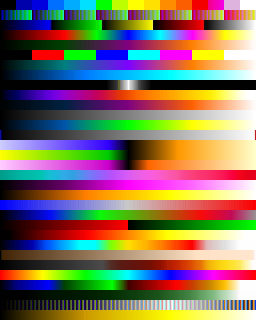
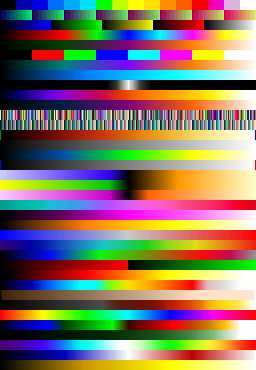
Update luts_10.png and list of new luts
Former-commit-id: de6da13f4d6d75056b44f8af123525e3b6bdb91a

diff --git a/components/tools/OmeroWeb/omeroweb/webgateway/static/webgateway/js/ome.viewport.js b/components/tools/OmeroWeb/omeroweb/webgateway/static/webgateway/js/ome.viewport.js
@@ -24,38 +24,43 @@ if (!OME) {
   OME = {};
 }
 // these are the LUT Names we know about and are included in the lut preview
-OME.LUT_NAMES = ["16_colors.lut",
-  "3-3-2_rgb.lut",
-  "5_ramps.lut",
-  "6_shades.lut",
-  "blue_orange_icb.lut",
-  "brgbcmyw.lut",
-  "cool.lut",
-  "cyan_hot.lut",
-  "edges.lut",
-  "fire.lut",
-  "gem.lut",
-  "grays.lut",
-  "green_fire_blue.lut",
-  "hilo.lut",
-  "ica.lut",
-  "ica2.lut",
-  "ica3.lut",
-  "ice.lut",
-  "magenta_hot.lut",
-  "orange_hot.lut",
-  "phase.lut",
-  "rainbow_rgb.lut",
-  "red-green.lut",
-  "red_hot.lut",
-  "royal.lut",
-  "sepia.lut",
-  "smart.lut",
-  "spectrum.lut",
-  "thal.lut",
-  "thallium.lut",
-  "unionjack.lut",
-  "yellow_hot.lut"];
+OME.LUT_NAMES = ['16_colors.lut',
+                 '3-3-2_rgb.lut',
+                 '5_ramps.lut',
+                 '6_shades.lut',
+                 'blue_orange_icb.lut',
+                 'brgbcmyw.lut',
+                 'cool.lut',
+                 'cyan_hot.lut',
+                 'edges.lut',
+                 'fire.lut',
+                 'gem.lut',
+                 'glasbey.lut',
+                 'glasbey_inverted.lut',
+                 'glow.lut',
+                 'grays.lut',
+                 'green_fire_blue.lut',
+                 'hilo.lut',
+                 'ica.lut',
+                 'ica2.lut',
+                 'ica3.lut',
+                 'ice.lut',
+                 'magenta_hot.lut',
+                 'orange_hot.lut',
+                 'phase.lut',
+                 'physics.lut',
+                 'rainbow_rgb.lut',
+                 'red-green.lut',
+                 'red_hot.lut',
+                 'royal.lut',
+                 'sepia.lut',
+                 'smart.lut',
+                 'spectrum.lut',
+                 'thal.lut',
+                 'thallium.lut',
+                 'thermal.lut',
+                 'unionjack.lut',
+                 'yellow_hot.lut'];
 
 jQuery.fn.WeblitzViewport = function (server, options) {
   return this.each

diff --git a/components/tools/OmeroWeb/omeroweb/webgateway/static/webgateway/js/ome.colorbtn.js b/components/tools/OmeroWeb/omeroweb/webgateway/static/webgateway/js/ome.colorbtn.js
@@ -122,7 +122,7 @@ $.fn.colorbtn = function(cfg) {
             var preview = '';
             // background image is luts_10.png which is 10 pixels per lut(row) but size is set to 200% so each row is 20 pixels
             if (idx > -1) {
-              preview = 'class="lutPreview" style="background-position: 0 -' + (idx * 20) + 'px"';
+              preview = 'class="lutBackground" style="background-position: 0 -' + (idx * 20) + 'px"';
             }
             var lutHtml = '<div><input id="' + lut.name + '" type="radio" name="lut" value="' + lut.name + '">';
             lutHtml += '<label for="' + lut.name + '">';

diff --git a/components/tools/OmeroWeb/omeroweb/webgateway/static/webgateway/css/ome.viewport.css b/components/tools/OmeroWeb/omeroweb/webgateway/static/webgateway/css/ome.viewport.css
@@ -186,7 +186,7 @@ div.weblitz-viewport-tiles img {
 
 .lutBackground {
   background-image: url('../img/luts_10.png');
-  background-size: 100% 640px;
+  background-size: 100% 740px;   /* 2 x height - each lut scales to 20px high */
   background-repeat: no-repeat;
 }
 button>.lutBackground {

diff --git a/components/tools/OmeroWeb/omeroweb/webgateway/static/webgateway/css/ome.colorbtn.css b/components/tools/OmeroWeb/omeroweb/webgateway/static/webgateway/css/ome.colorbtn.css
@@ -53,8 +53,3 @@
 .lutpicker input {
 	width: 10px;
 }
-.lutPreview {
-	background-image: url('../img/luts_10.png');
-	background-size: 50px 640px;
-	background-repeat: no-repeat;
-}

diff --git a/components/tools/OmeroWeb/omeroweb/webgateway/views.py b/components/tools/OmeroWeb/omeroweb/webgateway/views.py
@@ -1669,7 +1669,6 @@ def listLuts_json(request, conn=None, **kwargs):
                    'name': l.name.val,
                    'size': unwrap(l.size)
                    })
-    rv.sort()
     rv.sort(key=lambda x: x['name'].lower())
     return {"luts": rv}
 
